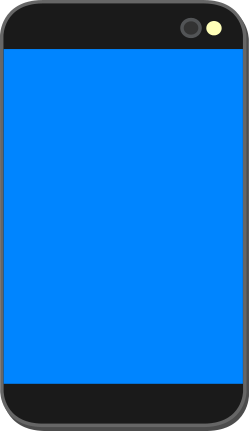
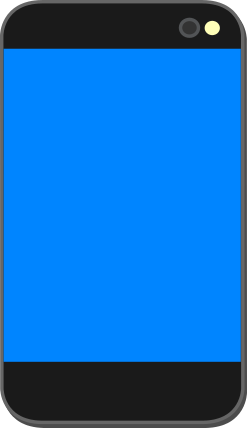
added utility bar

Changed region(s): [[0.0, 0.8201, 0.9919, 0.9112], [0.8219, 0.0607, 0.8502, 0.0911]]

diff --git a/styles.css b/styles.css
@@ -33,6 +33,15 @@ p {
 	padding-top: 40px;
 }
 
+
+.utility-bar {
+	height:20px;
+	width: 96.5%;
+	background-color: #000033;
+	margin-bottom: 2px;
+}
+
+
 .phone {
 	background: url("resources/phone.png") no-repeat;
 	background-size: 100%;

diff --git a/index.html b/index.html
@@ -13,6 +13,11 @@
 
 		  <div class="phone">
 
+		  <div class="utility-bar">
+		  	
+		  
+		  </div>
+
 			  <div class="icons">
 
 				<row>
